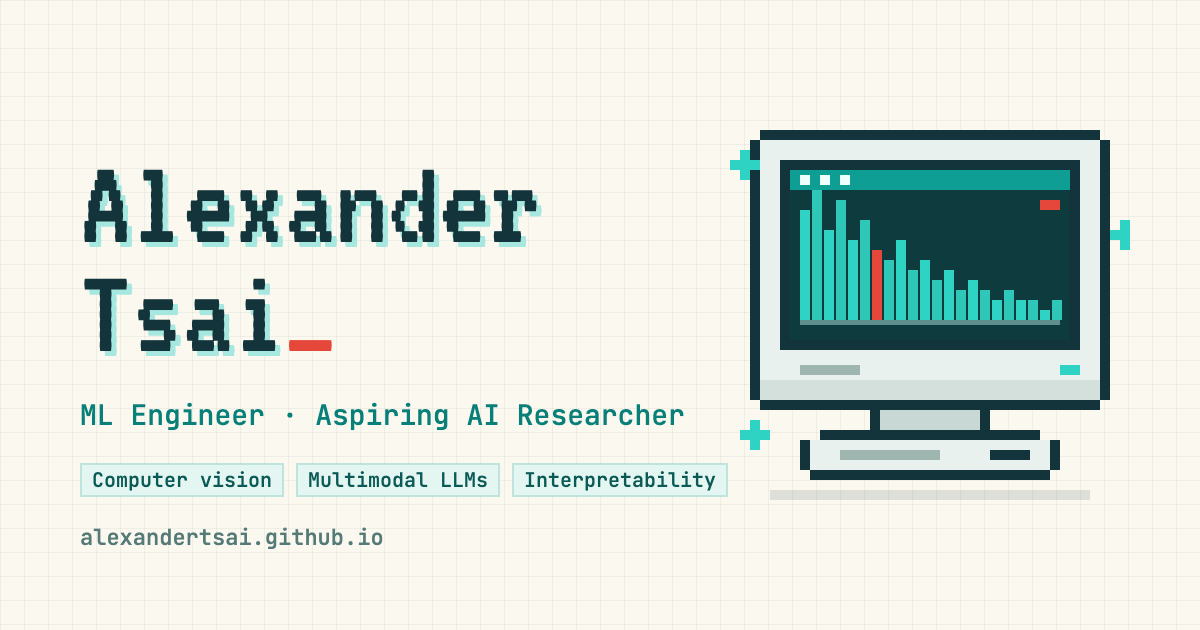
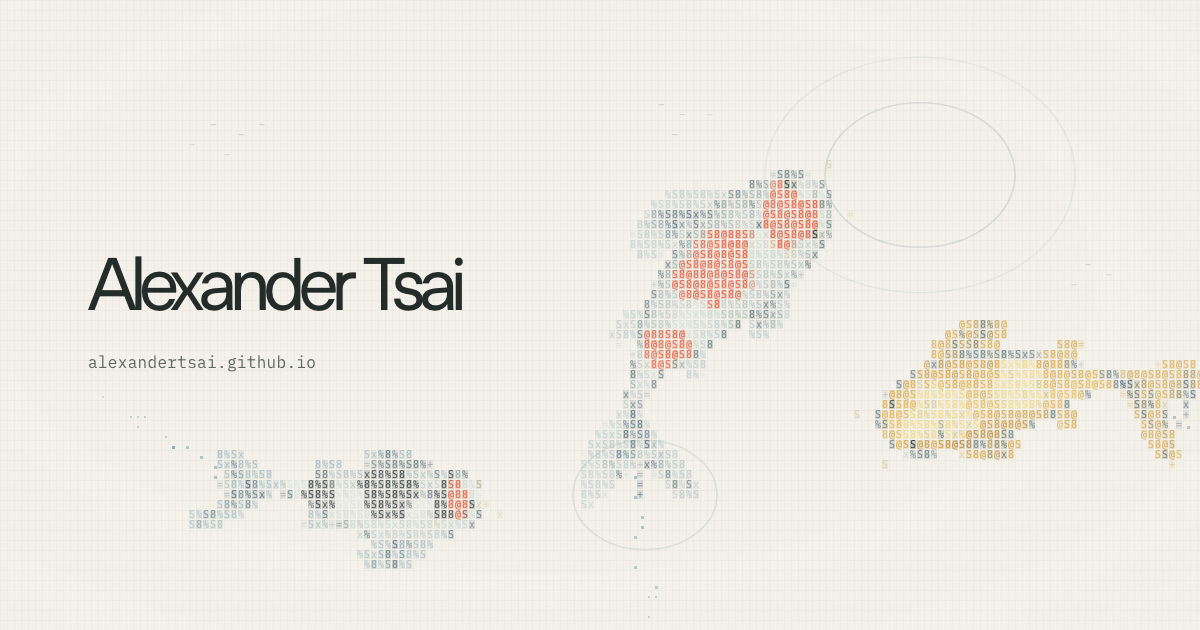
Update link preview to koi pond and remove Find box border

Changed region(s): [[0.0617, 0.181, 1.0, 0.9048], [0.0617, 0.2714, 0.4625, 0.6032]]

diff --git a/app/learning/garden.css b/app/learning/garden.css
@@ -143,7 +143,7 @@
 .learning .sugg .in { margin-left: 10px; font-size: 10.5px; color: var(--dim); }
 .learning .sugg .none { cursor: default; }
 .learning .find { position: fixed; left: 50%; top: 18%; transform: translateX(-50%); width: min(460px, calc(100vw - 40px)); z-index: 40;
-  padding: 16px 18px 12px; background: var(--panel); border: 1px dashed var(--dash); font-size: 13px; }
+  padding: 16px 18px 12px; background: var(--panel); font-size: 13px; }
 .learning .find[hidden] { display: none; }
 .learning .find input { width: 100%; background: none; border: 0; border-bottom: 1px solid var(--red); color: var(--ink); font: inherit; font-size: 15px; padding: 2px 0 6px; outline: none; }
 .learning .find input::placeholder { color: var(--dim); }
